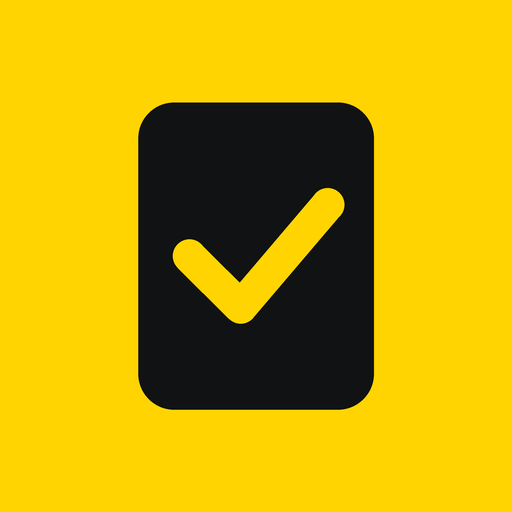
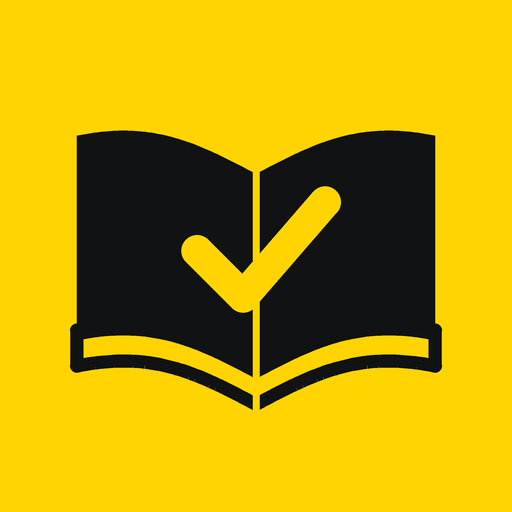
Icône livre ouvert, alignement des posters, engrenage, réglages
- Icônes : livre ouvert avec la coche jaune
- Discover / My List : titres sur deux lignes fixes, posters alignés
- Bouton réglages en forme d'engrenage
- Réglages : textes revus, glisser vers le bas pour fermer,
  synchronisation sans réaffichage de la feuille

Claude-Session: https://claude.ai/code/session_01CLPtuJWrt4dU86mGkvrFfV

diff --git a/index.html b/index.html
@@ -11,6 +11,7 @@
 :root{--bg:#f5f5f2;--card:#fff;--ink:#0b0b0a;--mut:#6f6f6b;--acc:#ffd400;--act:#8a6d00;--tint:#fff1a8;--on:#1a1500;--red:#e5484d;--line:#e6e6e2;color-scheme:light}
 @media(prefers-color-scheme:dark){:root{--bg:#111213;--card:#1c1d1f;--ink:#f4f4f0;--mut:#9a9ca0;--acc:#ffd400;--act:#ffd400;--tint:#3b3410;--on:#1a1500;--red:#f06a6a;--line:#2f3134;color-scheme:dark}}
 *{box-sizing:border-box;-webkit-tap-highlight-color:transparent}
+html,body{overscroll-behavior-y:none}
 body{margin:0;background:var(--bg);color:var(--ink);font:16px/1.4 "Avenir Next","Trebuchet MS",system-ui,sans-serif;padding:env(safe-area-inset-top) 12px calc(100px + env(safe-area-inset-bottom))}
 main{max-width:640px;margin:0 auto}
 h1{font:800 28px/1.15 "Avenir Next","Trebuchet MS",system-ui,sans-serif;letter-spacing:-.01em;margin:16px 0}
@@ -41,15 +42,15 @@ input:focus{border-color:var(--acc)}
 .srch input{padding-left:44px;border-radius:999px}
 
 /* Grille de posters : 3 par ligne */
-.grid{display:grid;grid-template-columns:repeat(3,minmax(0,1fr));gap:14px 10px;margin:12px 0}
-.pc{text-align:left;display:block;min-width:0}
+.grid{display:grid;grid-template-columns:repeat(3,minmax(0,1fr));gap:14px 10px;margin:12px 0;align-items:start}
+.pc{text-align:left;display:flex;flex-direction:column;align-items:stretch;justify-content:flex-start;align-self:start;min-width:0}
 .im{position:relative;aspect-ratio:2/3;border-radius:12px;overflow:hidden;background:var(--card);border:1px solid var(--line)}
 .im img{width:100%;height:100%;object-fit:cover;display:block}
 .im .ph{position:absolute;inset:0;display:grid;place-items:center;padding:8px;text-align:center;font-size:12px;color:var(--mut)}
 .tg{position:absolute;left:6px;top:6px;background:rgba(0,0,0,.72);color:#fff;font-size:10px;font-weight:700;letter-spacing:.03em;padding:3px 7px;border-radius:999px;text-transform:uppercase}
 .in{position:absolute;right:6px;top:6px;width:22px;height:22px;border-radius:50%;background:var(--acc);color:var(--on);display:grid;place-items:center}
-.pc b{display:-webkit-box;-webkit-line-clamp:2;-webkit-box-orient:vertical;overflow:hidden;font-size:13px;line-height:1.25;margin-top:6px;font-weight:600}
-.pc small{display:block;font-size:11px;color:var(--mut);margin-top:2px}
+.pc b{display:-webkit-box;-webkit-line-clamp:2;-webkit-box-orient:vertical;overflow:hidden;font-size:13px;line-height:1.25;height:2.5em;margin-top:6px;font-weight:600}
+.pc small{display:block;font-size:11px;line-height:1.3;min-height:1.3em;color:var(--mut);margin-top:2px}
 .pb{height:5px;border-radius:9px;background:var(--line);margin-top:7px;overflow:hidden}
 .pb i{display:block;height:100%;background:var(--acc);border-radius:9px}
 
@@ -124,8 +125,9 @@ input:focus{border-color:var(--acc)}
 /* Feuilles et pop-ups (mêmes formes que Muscu) */
 .sov{position:fixed;inset:0;background:rgba(0,0,0,.5);display:flex;align-items:flex-end;justify-content:center;z-index:10;animation:fd .18s}
 .sov.pop{align-items:center;padding:20px}
-.sheet{background:var(--card);width:100%;max-width:640px;max-height:92dvh;overflow-y:auto;border-radius:28px 28px 0 0;padding:10px 16px calc(24px + env(safe-area-inset-bottom,0px));animation:up .3s cubic-bezier(.22,.9,.3,1)}
-.grab{width:40px;height:5px;border-radius:9px;background:var(--line);margin:0 auto 12px}
+.sheet{background:var(--card);width:100%;max-width:640px;max-height:92dvh;overflow-y:auto;overscroll-behavior:contain;will-change:transform;border-radius:28px 28px 0 0;padding:10px 16px calc(24px + env(safe-area-inset-bottom,0px));animation:up .3s cubic-bezier(.22,.9,.3,1)}
+.grab{width:40px;height:5px;border-radius:9px;background:var(--line);margin:0 auto 12px;position:relative}
+.grab:after{content:"";position:absolute;inset:-14px -60px}
 .sheet h2{margin:4px 0 4px;font-size:22px}
 .sheet h3{font-size:12px;letter-spacing:.06em;color:var(--mut);margin:20px 0 8px;font-weight:700}
 .sheet label{display:block;font-size:13px;color:var(--mut);margin:10px 0 4px}
@@ -164,7 +166,7 @@ const BR={},DET={},OPEN={};          // œuvres vues en recherche, détails char
 const obj=k=>S.items[k]||BR[k];
 
 /* Icônes */
-const IC={search:'<circle cx="11" cy="11" r="7"/><path d="m20 20-3.5-3.5"/>',home:'<path d="M3 11 12 3l9 8"/><path d="M5 10v10h14V10"/>',list:'<path d="M8 6h13M8 12h13M8 18h13"/><circle cx="3.5" cy="6" r="1"/><circle cx="3.5" cy="12" r="1"/><circle cx="3.5" cy="18" r="1"/>',check:'<path d="m5 12.5 4.5 4.5L19 7.5"/>',back:'<path d="m15 5-7 7 7 7"/>',chev:'<path d="m9 5 7 7-7 7"/>',gear:'<circle cx="12" cy="12" r="3"/><path d="M12 2v3M12 19v3M2 12h3M19 12h3M4.9 4.9 7 7M17 17l2.1 2.1M4.9 19.1 7 17M17 7l2.1-2.1"/>',cal:'<rect x="3" y="5" width="18" height="16" rx="3"/><path d="M3 10h18M8 3v4M16 3v4"/>'};
+const IC={search:'<circle cx="11" cy="11" r="7"/><path d="m20 20-3.5-3.5"/>',home:'<path d="M3 11 12 3l9 8"/><path d="M5 10v10h14V10"/>',list:'<path d="M8 6h13M8 12h13M8 18h13"/><circle cx="3.5" cy="6" r="1"/><circle cx="3.5" cy="12" r="1"/><circle cx="3.5" cy="18" r="1"/>',check:'<path d="m5 12.5 4.5 4.5L19 7.5"/>',back:'<path d="m15 5-7 7 7 7"/>',chev:'<path d="m9 5 7 7-7 7"/>',gear:'<circle cx="12" cy="12" r="3"/><path d="M19.4 15a1.65 1.65 0 0 0 .33 1.82l.06.06a2 2 0 0 1 0 2.83 2 2 0 0 1-2.83 0l-.06-.06a1.65 1.65 0 0 0-1.82-.33 1.65 1.65 0 0 0-1 1.51V21a2 2 0 0 1-2 2 2 2 0 0 1-2-2v-.09A1.65 1.65 0 0 0 9 19.4a1.65 1.65 0 0 0-1.82.33l-.06.06a2 2 0 0 1-2.83 0 2 2 0 0 1 0-2.83l.06-.06a1.65 1.65 0 0 0 .33-1.82 1.65 1.65 0 0 0-1.51-1H3a2 2 0 0 1-2-2 2 2 0 0 1 2-2h.09A1.65 1.65 0 0 0 4.6 9a1.65 1.65 0 0 0-.33-1.82l-.06-.06a2 2 0 0 1 0-2.83 2 2 0 0 1 2.83 0l.06.06a1.65 1.65 0 0 0 1.82.33H9a1.65 1.65 0 0 0 1-1.51V3a2 2 0 0 1 2-2 2 2 0 0 1 2 2v.09a1.65 1.65 0 0 0 1 1.51 1.65 1.65 0 0 0 1.82-.33l.06-.06a2 2 0 0 1 2.83 0 2 2 0 0 1 0 2.83l-.06.06a1.65 1.65 0 0 0-.33 1.82V9a1.65 1.65 0 0 0 1.51 1H21a2 2 0 0 1 2 2 2 2 0 0 1-2 2h-.09a1.65 1.65 0 0 0-1.51 1z"/>',cal:'<rect x="3" y="5" width="18" height="16" rx="3"/><path d="M3 10h18M8 3v4M16 3v4"/>'};
 const SI=(n,z=22,w=2)=>`<svg width=${z} height=${z} viewBox="0 0 24 24" fill="none" stroke="currentColor" stroke-width="${w}" stroke-linecap="round" stroke-linejoin="round">${IC[n]}</svg>`;
 
 /* ============ Sources de données ============ */
@@ -299,7 +301,7 @@ function card(it,mode){const inl=!!S.items[it.k];let ex='';
  return`<button class=pc data-a=open data-k="${it.k}"><div class=im>${img(it)}<span class=tg>${esc(it.lb)}</span>${mode!=='list'&&inl?`<span class=in>${SI('check',14,3)}</span>`:''}</div>${ex}</button>`}
 const chips=(L,cur,a)=>`<div class=chips>${L.map(([v,l])=>`<button class="chip${cur===v?' on':''}" data-a=${a} data-v=${v}>${l}</button>`).join('')}</div>`;
 const tabbar=()=>`<nav class=tabs>${[['disc','search','Discover'],['home','home','Home'],['list','list','My List']].map(([k,i,l])=>`<button class="${TAB===k?'on':''}" data-a=tab data-t=${k}><span>${SI(i,24)}</span>${l}</button>`).join('')}</nav>`;
-const gear=`<button class=ib data-a=cfg aria-label="Réglages">${SI('gear',20)}</button>`;
+const gear=`<button class=ib data-a=cfg aria-label="Réglages">${SI('gear',21,1.7)}</button>`;
 
 function resHTML(){
  if(RERR==='NOKEY')return`<div class=note>Les séries passent par TMDB, qui demande une clé gratuite. <button data-a=cfg>Ajouter ma clé</button></div>`;
@@ -355,9 +357,8 @@ function overlay(){const f=F;if(!f)return'';
  if(f.k==='rm')return`<div class="sov pop" data-a=fno><div class=dpop><h3>Retirer de ta liste ?</h3><p>Ta progression sur « ${esc(obj(f.key).t)} » sera effacée.</p><button class="dbt red" data-a=rmok>Retirer</button><button class="dbt tx" data-a=fno>Annuler</button></div></div>`;
  if(f.k==='cfg'){const c=S.cfg,fld=(k,l,ph,t)=>`<label>${l}</label><input data-cfg=${k} placeholder="${ph}" value="${esc(c[k])}" ${t||''} autocomplete=off autocapitalize=off spellcheck=false>`;
   return`<div class=sov data-a=fno><div class=sheet><div class=grab></div><h2>Réglages</h2>
-  <h3>SÉRIES · CLÉ TMDB</h3>${fld('tmdb','Clé d’API (gratuite)','Colle ta clé TMDB ici','type=password')}<p>Crée un compte sur <a href="https://www.themoviedb.org/settings/api" target=_blank rel=noopener>themoviedb.org</a>, puis Paramètres → API. Les animés et mangas fonctionnent sans clé.</p>
+  <h3>SÉRIES · CLÉ TMDB</h3>${fld('tmdb','Clé API','Colle ta clé TMDB ici','type=password')}<p>Sur <a href="https://www.themoviedb.org/settings/api" target=_blank rel=noopener>themoviedb.org</a>, puis Paramètres → API.</p>
   <h3>SYNCHRONISATION GITHUB</h3>${fld('repo','Dépôt privé','utilisateur/depot-prive')}${fld('path','Fichier','mangatime-data.json')}${fld('token','Jeton d’accès','','type=password')}
-  <p>Mêmes réglages que dans Muscu : tu peux réutiliser le même dépôt et le même jeton, le fichier est différent. Saisis-les sur chaque appareil.</p>
   <button class="dbt gr" data-a=sync>Synchroniser maintenant</button><p id=msg>${esc(MSG)}</p>
   <h3>SAUVEGARDE</h3><button class=dbt data-a=exp>Exporter mes données</button><button class=dbt data-a=imp>Importer un fichier</button><input id=file type=file accept="application/json,.json" hidden>
   <p style="margin-top:18px">Données : AniList et TMDB. Ce produit utilise l’API TMDB mais n’est ni approuvé ni certifié par TMDB.</p></div></div>`}
@@ -392,16 +393,27 @@ document.addEventListener('click',e=>{const b=e.target.closest('[data-a]');if(!b
  if(a==='upto'){const n=Math.max(0,Math.floor(+$('#upto').value||0)),x=ensure(VIEW);if(x.tot&&n>x.tot)return alertMsg('Cette œuvre compte '+x.tot+' chapitres.');
   if(!x.tot)x.cnt=Math.max(x.cnt||0,n+1);const w=new Set();for(let i=1;i<=n;i++)w.add(i);delete OPEN[VIEW];x.w=[...w];commit(x,w);initOpen(VIEW);return render()}
  if(a==='day'){const x=ensure(VIEW),v=+d.v;x.day=x.day===v?null:v;touch(x);return render()}
- if(a==='sync'){MSG='Synchronisation…';render();return sync(true).then(()=>{if(F&&F.k==='cfg')render()})}
+ if(a==='sync'){setMsg('Synchronisation…');return sync(true)}
  if(a==='exp'){const u=URL.createObjectURL(new Blob([JSON.stringify({items:S.items,del:S.del},null,1)],{type:'application/json'})),l=document.createElement('a');l.href=u;l.download='mangatime-'+new Date().toISOString().slice(0,10)+'.json';l.click();return setTimeout(()=>URL.revokeObjectURL(u),2e3)}
  if(a==='imp')return $('#file').click()});
+function setMsg(m){MSG=m;const el=$('#msg');if(el)el.textContent=m}
 function alertMsg(m){const el=$('#upto');if(el){el.value='';el.placeholder=m}}
 document.addEventListener('input',e=>{const t=e.target;
  if(t.id==='q'){Q=t.value.trim();clearTimeout(ST);ST=setTimeout(search,450)}
  if(t.dataset.cfg){S.cfg[t.dataset.cfg]=t.value.trim();persist();if(t.dataset.cfg==='tmdb'){RES=DT==='T'?null:RES;RERR=''}}});
 document.addEventListener('keydown',e=>{if(e.key==='Enter'&&e.target.id==='q'){clearTimeout(ST);e.target.blur();search()}if(e.key==='Enter'&&e.target.id==='upto')$('[data-a=upto]').click()});
 document.addEventListener('change',e=>{if(e.target.id!=='file'||!e.target.files[0])return;const r=new FileReader();
- r.onload=()=>{try{merge(JSON.parse(r.result));S.dirty=1;persist();MSG='Import terminé.';schedSync()}catch{MSG='Fichier illisible.'}render()};r.readAsText(e.target.files[0])});
+ r.onload=()=>{try{merge(JSON.parse(r.result));S.dirty=1;persist();setMsg('Import terminé.');schedSync()}catch{setMsg('Fichier illisible.')}};r.readAsText(e.target.files[0])});
+
+/* Feuille : glisser vers le bas pour la fermer */
+let DR=null;
+document.addEventListener('touchstart',e=>{const sh=e.target.closest('.sheet');DR=null;if(!sh||e.touches.length>1)return;
+ DR={sh,y:e.touches[0].clientY,dy:0,ok:sh.scrollTop<=0||!!e.target.closest('.grab')}},{passive:true});
+document.addEventListener('touchmove',e=>{if(!DR||!DR.ok)return;const dy=e.touches[0].clientY-DR.y;
+ if(dy<=0){if(DR.dy){DR.dy=0;DR.sh.style.transform=''}return}
+ if(e.cancelable)e.preventDefault();DR.dy=dy;DR.sh.style.transition='none';DR.sh.style.transform=`translateY(${dy}px)`},{passive:false});
+document.addEventListener('touchend',()=>{const d=DR;DR=null;if(!d||!d.dy)return;d.sh.style.transition='transform .2s ease-out';
+ if(d.dy>110){d.sh.style.transform='translateY(100%)';setTimeout(()=>{F=null;render()},190)}else d.sh.style.transform=''});
 
 /* ============ Synchro GitHub (même principe que Muscu) ============ */
 const api=()=>`https://api.github.com/repos/${S.cfg.repo}/contents/${S.cfg.path||'mangatime-data.json'}`;
@@ -426,7 +438,7 @@ async function sync(manual){if(!S.cfg.repo||!S.cfg.token){if(manual)MSG='Renseig
   if(newer||S.dirty){try{await push()}catch{const r2=await pull();if(r2)merge(r2);await push()}}
   S.dirty=0;MSG='Synchronisé à '+new Date().toLocaleTimeString('fr-FR',{hour:'2-digit',minute:'2-digit'})}
  catch(e){MSG='Échec de la synchronisation : '+e.message+' (vérifie dépôt, jeton, réseau)'}
- SYNCING=false;persist();if(!F&&!document.activeElement.matches('input'))render()}
+ SYNCING=false;persist();setMsg(MSG);if(!F&&!document.activeElement.matches('input'))render()}
 function schedSync(){clearTimeout(SY);SY=setTimeout(()=>sync(),4000)}
 document.addEventListener('visibilitychange',()=>{if(document.visibilityState==='visible'){sync();refreshAll()}});
 

diff --git a/sw.js b/sw.js
@@ -3,7 +3,7 @@
 // et si le réseau est absent ou trop lent (> 3 s), on sert la copie gardée en cache.
 // Les appels à api.github.com (synchro) ne sont JAMAIS interceptés.
 
-const CACHE = 'mangatime-v1';
+const CACHE = 'mangatime-v2';
 const FILES = ['./', './index.html', './manifest.json', './icon-192.png', './icon-512.png', './apple-touch-icon.png'];
 
 self.addEventListener('install', e => {
